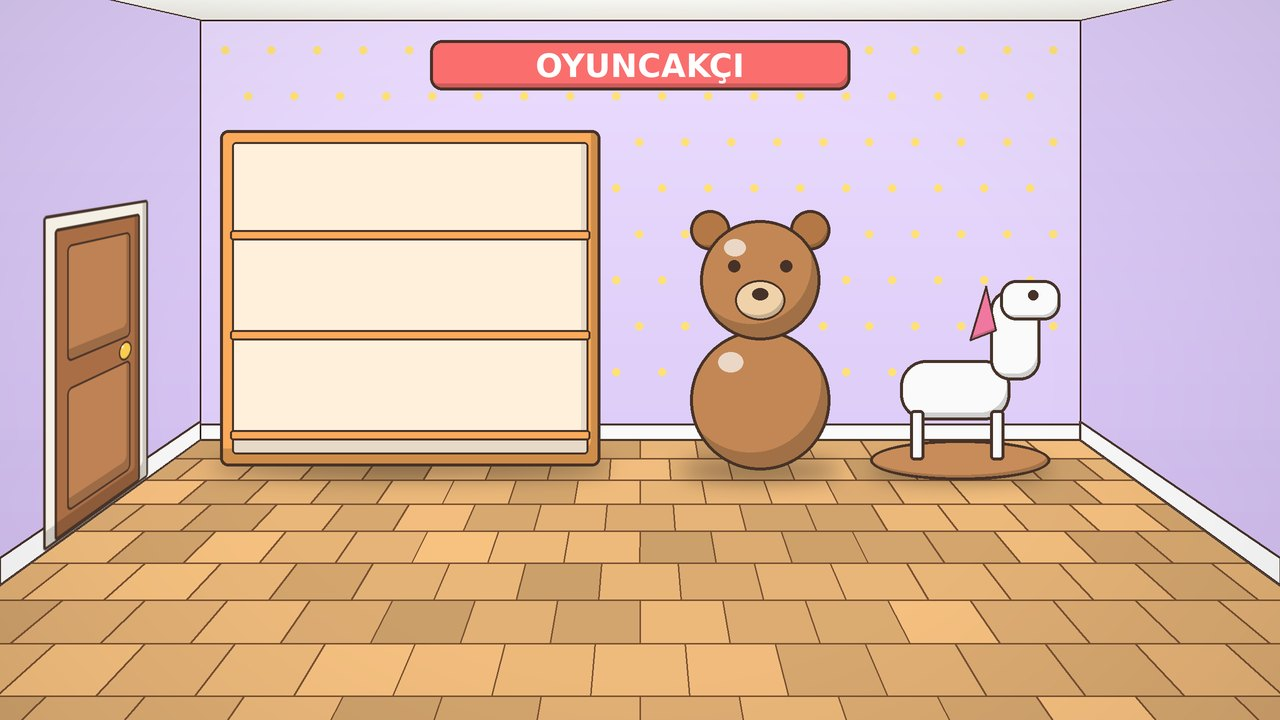
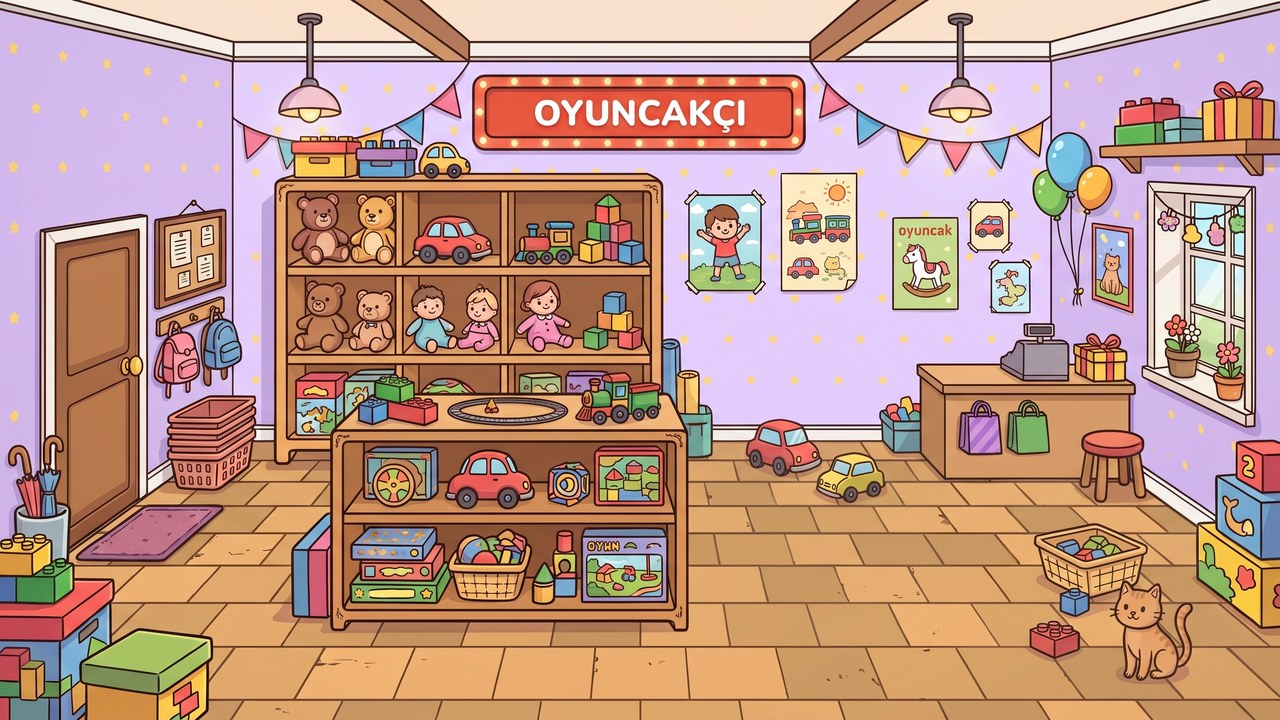
Oyuncakçı: yeni resim, iki rafta oyuncaklar, kasa tezgahı, kırmızı tabure
Claude-Session: https://claude.ai/code/session_01FSkVF6b9FMUcpnurV8yuFZ

diff --git a/js/veri.js b/js/veri.js
@@ -489,21 +489,28 @@ window.OYUN_VERI = {
 
     oyuncakci: {
       ad: "Oyuncakçı", simge: "oyuncak",
-      resim: "cizimler/mekan/oyuncakci.jpg", zemin: ZEMIN, giris: GIRIS_SOL,
-      kapilar: [{ ...KAPI_SOL, hedef: "dunya", yer: "oyuncakci" }],
+      resim: "cizimler/mekan/oyuncakci.jpg",
+      zemin: { ust: 470, alt: 705, sol: 30, sag: 1250, ufuk: { x: 640, y: 200 }, arka: { sol: 235, sag: 1050, y: 440 } },
+      giris: { x: 240, y: 610 },
+      kapilar: [{ x: 40, y: 215, w: 110, h: 330, hedef: "dunya", yer: "oyuncakci" }],
       calisan: {
-        meslek: "oyuncakci", x: 620, y: 510,
+        meslek: "oyuncakci", x: 880, y: 565,
         selam: "Hoş geldin! Hangi oyuncağa bakmıştın?",
         sozler: ["Bu top çok yükseğe zıplıyor!", "Yeni oyuncak arabalar geldi.", "Hediye paketi yapalım mı?", "Ayıcığımız çok yumuşak, sarılabilirsin.", "Pilleri de vereyim mi?"],
       },
       noktalar: [
+        // Arkadaki büyük raf ve öndeki raf. Alınan oyuncağın yerine yenisi gelir.
         {
           tur: "raf", raflar: [
-            { sablon: "top", x: 285, y: 230 }, { sablon: "kup", x: 385, y: 230 }, { sablon: "ordek", x: 480, y: 230 },
-            { sablon: "araba", x: 300, y: 330 }, { sablon: "boya", x: 420, y: 330 }, { sablon: "kitap", x: 520, y: 330 },
-            { sablon: "top", x: 290, y: 430 }, { sablon: "kova", x: 410, y: 430 }, { sablon: "telefon", x: 525, y: 430 },
+            { sablon: "ordek", x: 335, y: 263 }, { sablon: "araba", x: 452, y: 263 }, { sablon: "kup", x: 612, y: 263 },
+            { sablon: "top", x: 605, y: 350 },
+            { sablon: "boya", x: 400, y: 503 }, { sablon: "araba", x: 490, y: 503 }, { sablon: "kup", x: 570, y: 503 },
+            { sablon: "kitap", x: 400, y: 600 }, { sablon: "kova", x: 490, y: 600 }, { sablon: "top", x: 620, y: 600 },
           ],
         },
+        { tur: "tezgah", x: 918, y: 340, w: 215, h: 45, ust: 378 },
+        // Kırmızı tabure.
+        { tur: "otur", x: 1075, y: 425, w: 75, h: 80, oturma: { x: 1112, y: 495 } },
       ],
     },
     hastane: {
